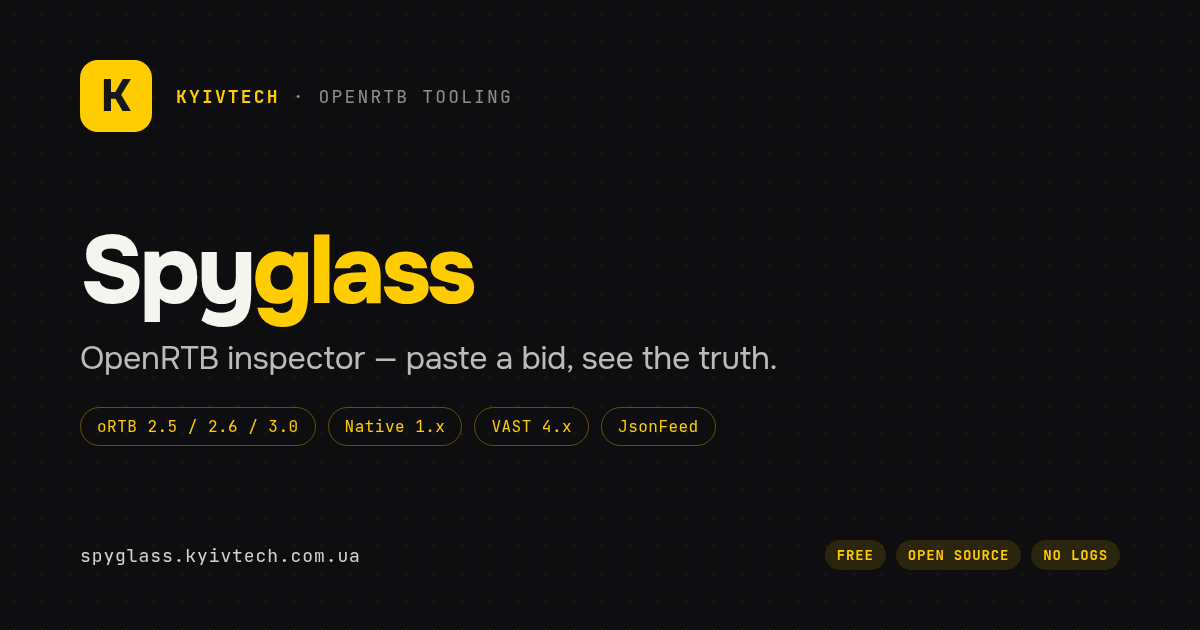
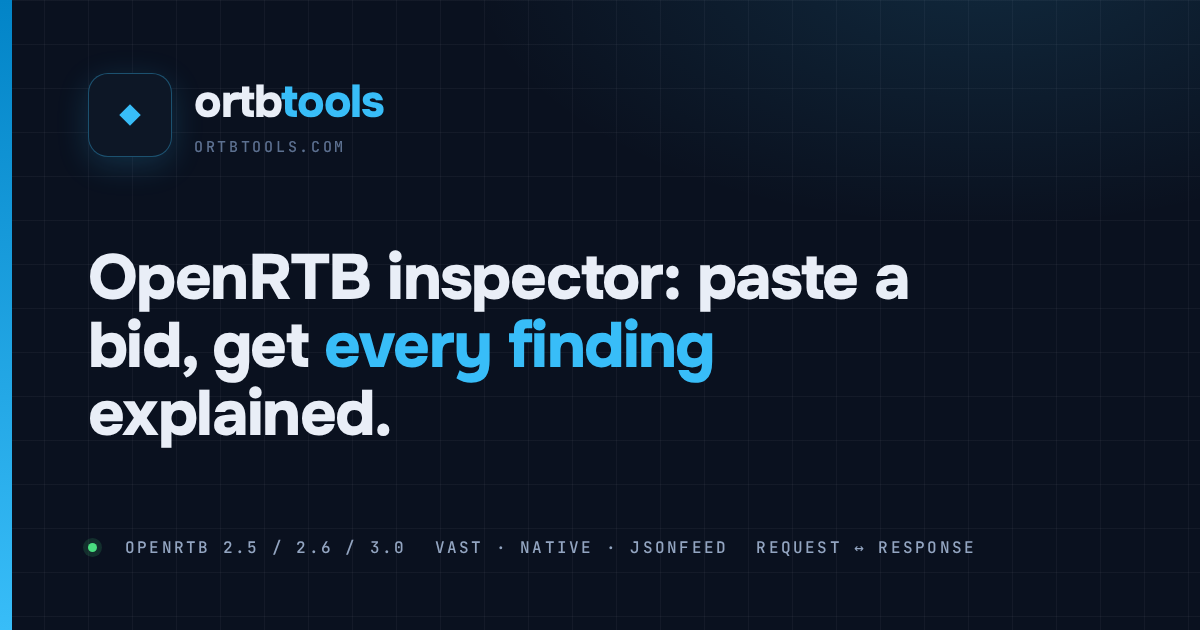
fix(design): v1.3.8 — Signal wave 1: stop-yellow
Design audit 2026-07-13 (vault «2026-07-13 — ortbtools.com дизайн-аудит
(Signal)») found the retired brand yellow #FFCC00 still RENDERING live in
six places, a month after the Signal decision removed it from the brand.
This wave kills every live-yellow pixel; the ~290 dormant var() fallbacks
sweep stays scheduled for wave 3.

- Favicon/icon: yellow "K" tile → navy #0D1726 + #38BDF8 ◆ (matches the
  sidebar brand mark); mask-icon color #FFCC00 → #0284C7 in all 9 shells.
  og-image.png regenerated (was pre-Signal, 2026-05-04): navy blueprint
  card, Onest headline, JBM meta row.
- inspector.css: declare --accent-rgb / --bg-elev-rgb per theme — four
  rgba(var(--accent-rgb, 255,204,0)) call sites (priv-badge, ver-badge,
  severity-chip hover) rendered the yellow fallback because the token
  never existed. q-good quality pill was yellow fill/glow against an
  already-blue border → accent family (scale: green→blue→orange→red),
  status text #0369a1 light / --accent dark (both AA).
- account.*.html: undeclared --accent-bg → var(--accent-soft) (active
  cabinet nav rendered pale yellow; .cab-radio.active lost its tint).
- search.css: dark dropdown glass rgba(42,38,34,.88) — pre-Signal warm
  graphite, a brown panel on the navy theme → rgba(18,28,48,.88) from
  --bg-elev.
- blog.css: undeclared --surface-alt → var(--bg-elev-2) (code blocks were
  dark charcoal in the light theme); active chip color #000 →
  var(--text-on-accent).
[…]

diff --git a/public/modules/inspector/inspector.css b/public/modules/inspector/inspector.css
@@ -18,9 +18,17 @@
          win the cascade by default. */
 :root {
   --text-warning: #92400e;
+  /* RGB triplets for rgba(var(--…-rgb), α) mixing. Neither token exists in
+     design-system.css — without these declarations the call sites below fell
+     back to the retired brand yellow (255, 204, 0). Values mirror --accent
+     (#0284C7 / #38BDF8) and --bg-elev (#FFFFFF / #121C30) per theme. */
+  --accent-rgb: 2, 132, 199;
+  --bg-elev-rgb: 255, 255, 255;
 }
 [data-theme='dark'] {
   --text-warning: #fcd34d;
+  --accent-rgb: 56, 189, 248;
+  --bg-elev-rgb: 18, 28, 48;
 }
 
 html,
@@ -2805,9 +2813,9 @@ button.cross-path:focus-visible,
   font-size: 10px;
   font-weight: 700;
   margin-right: 3px;
-  background: rgba(var(--accent-rgb, 255, 204, 0), 0.15);
+  background: rgba(var(--accent-rgb, 2, 132, 199), 0.15);
   color: var(--text);
-  border: 1px solid rgba(var(--accent-rgb, 255, 204, 0), 0.4);
+  border: 1px solid rgba(var(--accent-rgb, 2, 132, 199), 0.4);
 }
 /* Version badge accent */
 .analysis-strip-value .ver-badge {
@@ -2816,9 +2824,9 @@ button.cross-path:focus-visible,
   border-radius: 3px;
   font-size: 11px;
   font-weight: 700;
-  background: rgba(var(--accent-rgb, 255, 204, 0), 0.2);
+  background: rgba(var(--accent-rgb, 2, 132, 199), 0.2);
   color: var(--text);
-  border: 1px solid var(--accent, #ffcc00);
+  border: 1px solid var(--accent, #0284c7);
 }
 /* Narrow viewports: hide labels, scroll horizontally. Previously the blocks
    stayed flex:1 (equal columns), crushing each value to ~32px so "Web (Banner)"
@@ -2878,14 +2886,14 @@ button.cross-path:focus-visible,
   background: rgba(255, 255, 255, 0.04);
 }
 .severity-chip:hover {
-  background: rgba(var(--accent-rgb, 255, 204, 0), 0.1);
-  border-color: var(--accent, #ffcc00);
+  background: rgba(var(--accent-rgb, 2, 132, 199), 0.1);
+  border-color: var(--accent, #0284c7);
   color: var(--text);
 }
 .severity-chip.active {
-  background: var(--accent, #ffcc00);
-  border-color: var(--accent, #ffcc00);
-  color: var(--accent-ink, #18181b);
+  background: var(--accent, #0284c7);
+  border-color: var(--accent, #0284c7);
+  color: var(--text-on-accent, #ffffff);
 }
 .severity-chip .chip-dot {
   display: inline-block;
@@ -2964,12 +2972,15 @@ button.cross-path:focus-visible,
     0 0 6px 0 rgba(22, 163, 74, 0.35) inset,
     0 0 4px rgba(22, 163, 74, 0.25);
 }
+/* q-good tier rides the Signal accent (blue) — scale reads
+   green → blue → orange → red. Was retired brand yellow, which left a
+   yellow fill against an already-blue border after the Signal migration. */
 .quality-pill.q-good {
-  background: rgba(255, 204, 0, 0.18);
-  border-color: var(--accent, #ffcc00);
+  background: rgba(var(--accent-rgb, 2, 132, 199), 0.16);
+  border-color: var(--accent, #0284c7);
   box-shadow:
-    0 0 6px 0 rgba(255, 204, 0, 0.35) inset,
-    0 0 4px rgba(255, 204, 0, 0.25);
+    0 0 6px 0 rgba(var(--accent-rgb, 2, 132, 199), 0.32) inset,
+    0 0 4px rgba(var(--accent-rgb, 2, 132, 199), 0.22);
 }
 .quality-pill.q-needs-attention {
   background: rgba(234, 88, 12, 0.18);
@@ -3013,10 +3024,11 @@ button.cross-path:focus-visible,
   color: #16a34a;
 }
 .quality-pill.q-good .quality-status {
-  color: #b8960a;
+  /* sky-700 — 5.9:1 on white; --accent itself is only 4.1:1 as text */
+  color: #0369a1;
 }
 [data-theme='dark'] .quality-pill.q-good .quality-status {
-  color: var(--accent, #ffcc00);
+  color: var(--accent, #38bdf8);
 }
 .quality-pill.q-needs-attention .quality-status {
   color: #ea580c;

diff --git a/public/modules/blog/blog.css b/public/modules/blog/blog.css
@@ -58,9 +58,9 @@
   border-color: var(--text-muted);
 }
 .blog-chip.is-active {
-  background: var(--accent, #ffcc00);
-  border-color: var(--accent, #ffcc00);
-  color: #000;
+  background: var(--accent, #0284c7);
+  border-color: var(--accent, #0284c7);
+  color: var(--text-on-accent, #ffffff);
 }
 
 /* ── Grid ────────────────────────────────────────────────── */
@@ -145,7 +145,7 @@
   font-size: 11px;
   padding: 2px 6px;
   border-radius: 4px;
-  background: var(--surface-alt, #27272a);
+  background: var(--bg-elev-2, #ecf1f6);
   color: var(--text-muted);
 }
 .blog-source {
@@ -249,13 +249,13 @@
   margin: 0.3em 0;
 }
 .blog-post__body code {
-  background: var(--surface-alt, #27272a);
+  background: var(--bg-elev-2, #ecf1f6);
   border-radius: 4px;
   padding: 1px 5px;
   font-size: 0.9em;
 }
 .blog-post__body pre {
-  background: var(--surface-alt, #27272a);
+  background: var(--bg-elev-2, #ecf1f6);
   border-radius: 6px;
   padding: 12px 16px;
   overflow-x: auto;

diff --git a/public/account.en.html b/public/account.en.html
@@ -15,7 +15,7 @@
     <link rel="alternate" hreflang="en" href="https://ortbtools.com/account" />
     <link rel="icon" type="image/svg+xml" sizes="any" href="/icon.svg" />
     <link rel="apple-touch-icon" href="/icon.svg" />
-    <link rel="mask-icon" href="/icon.svg" color="#FFCC00" />
+    <link rel="mask-icon" href="/icon.svg" color="#0284C7" />
     <link rel="preconnect" href="https://fonts.googleapis.com" />
     <link rel="preconnect" href="https://fonts.gstatic.com" crossorigin />
     <link
@@ -243,7 +243,7 @@
       }
       .cab-radio.active {
         border-color: var(--accent);
-        background: var(--accent-bg);
+        background: var(--accent-soft);
         color: var(--accent);
       }
       .heatmap {
@@ -463,7 +463,7 @@
         color: var(--text);
       }
       .cab-nav-item.is-active {
-        background: var(--accent-bg, rgba(255, 204, 0, 0.15));
+        background: var(--accent-soft, rgba(2, 132, 199, 0.12));
         color: var(--accent, #181818);
         font-weight: 500;
       }

diff --git a/public/account.ru.html b/public/account.ru.html
@@ -15,7 +15,7 @@
     <link rel="alternate" hreflang="en" href="https://ortbtools.com/account" />
     <link rel="icon" type="image/svg+xml" sizes="any" href="/icon.svg" />
     <link rel="apple-touch-icon" href="/icon.svg" />
-    <link rel="mask-icon" href="/icon.svg" color="#FFCC00" />
+    <link rel="mask-icon" href="/icon.svg" color="#0284C7" />
     <link rel="preconnect" href="https://fonts.googleapis.com" />
     <link rel="preconnect" href="https://fonts.gstatic.com" crossorigin />
     <link
@@ -243,7 +243,7 @@
       }
       .cab-radio.active {
         border-color: var(--accent);
-        background: var(--accent-bg);
+        background: var(--accent-soft);
         color: var(--accent);
       }
       .heatmap {
@@ -463,7 +463,7 @@
         color: var(--text);
       }
       .cab-nav-item.is-active {
-        background: var(--accent-bg, rgba(255, 204, 0, 0.15));
+        background: var(--accent-soft, rgba(2, 132, 199, 0.12));
         color: var(--accent, #181818);
         font-weight: 500;
       }

diff --git a/public/account.uk.html b/public/account.uk.html
@@ -15,7 +15,7 @@
     <link rel="alternate" hreflang="en" href="https://ortbtools.com/account" />
     <link rel="icon" type="image/svg+xml" sizes="any" href="/icon.svg" />
     <link rel="apple-touch-icon" href="/icon.svg" />
-    <link rel="mask-icon" href="/icon.svg" color="#FFCC00" />
+    <link rel="mask-icon" href="/icon.svg" color="#0284C7" />
     <link rel="preconnect" href="https://fonts.googleapis.com" />
     <link rel="preconnect" href="https://fonts.gstatic.com" crossorigin />
     <link
@@ -243,7 +243,7 @@
       }
       .cab-radio.active {
         border-color: var(--accent);
-        background: var(--accent-bg);
+        background: var(--accent-soft);
         color: var(--accent);
       }
       .heatmap {
@@ -463,7 +463,7 @@
         color: var(--text);
       }
       .cab-nav-item.is-active {
-        background: var(--accent-bg, rgba(255, 204, 0, 0.15));
+        background: var(--accent-soft, rgba(2, 132, 199, 0.12));
         color: var(--accent, #181818);
         font-weight: 500;
       }

diff --git a/public/about.en.html b/public/about.en.html
@@ -58,7 +58,7 @@
     </script>
     <link rel="icon" type="image/svg+xml" sizes="any" href="/icon.svg" />
     <link rel="apple-touch-icon" href="/icon.svg" />
-    <link rel="mask-icon" href="/icon.svg" color="#FFCC00" />
+    <link rel="mask-icon" href="/icon.svg" color="#0284C7" />
     <link rel="preconnect" href="https://fonts.googleapis.com" />
     <link rel="preconnect" href="https://fonts.gstatic.com" crossorigin />
     <link
@@ -1340,7 +1340,7 @@ server formats localised text and returns 200 JSON</code></pre>
               font-size: var(--fs-sm);
             "
           >
-            <span data-spyglass-version>v1.3.7</span> · openrtb 2.5 / 2.6 / 3.0 · native 1.x · vast
+            <span data-spyglass-version>v1.3.8</span> · openrtb 2.5 / 2.6 / 3.0 · native 1.x · vast
             4.x · <a href="/" style="color: var(--text-dim)">↗ ortbtools</a> ·
             <a href="https://ortbtools.com/" style="color: var(--text-dim)">ortbtools.com</a>
           </p>

diff --git a/public/about.uk.html b/public/about.uk.html
@@ -58,7 +58,7 @@
     </script>
     <link rel="icon" type="image/svg+xml" sizes="any" href="/icon.svg" />
     <link rel="apple-touch-icon" href="/icon.svg" />
-    <link rel="mask-icon" href="/icon.svg" color="#FFCC00" />
+    <link rel="mask-icon" href="/icon.svg" color="#0284C7" />
     <link rel="preconnect" href="https://fonts.googleapis.com" />
     <link rel="preconnect" href="https://fonts.gstatic.com" crossorigin />
     <link
@@ -1343,7 +1343,7 @@ findings[]: { id, level, path, params, msg, specRef }
               font-size: var(--fs-sm);
             "
           >
-            <span data-spyglass-version>v1.3.7</span> · openrtb 2.5 / 2.6 / 3.0 · native 1.x · vast
+            <span data-spyglass-version>v1.3.8</span> · openrtb 2.5 / 2.6 / 3.0 · native 1.x · vast
             4.x · <a href="/uk/" style="color: var(--text-dim)">↗ ortbtools</a> ·
             <a href="https://ortbtools.com/" style="color: var(--text-dim)">ortbtools.com</a>
           </p>

diff --git a/public/about.ru.html b/public/about.ru.html
@@ -59,7 +59,7 @@
     </script>
     <link rel="icon" type="image/svg+xml" sizes="any" href="/icon.svg" />
     <link rel="apple-touch-icon" href="/icon.svg" />
-    <link rel="mask-icon" href="/icon.svg" color="#FFCC00" />
+    <link rel="mask-icon" href="/icon.svg" color="#0284C7" />
     <link rel="preconnect" href="https://fonts.googleapis.com" />
     <link rel="preconnect" href="https://fonts.gstatic.com" crossorigin />
     <link
@@ -1341,7 +1341,7 @@ findings[]: { id, level, path, params, msg, specRef }
               font-size: var(--fs-sm);
             "
           >
-            <span data-spyglass-version>v1.3.7</span> · openrtb 2.5 / 2.6 / 3.0 · native 1.x · vast
+            <span data-spyglass-version>v1.3.8</span> · openrtb 2.5 / 2.6 / 3.0 · native 1.x · vast
             4.x · <a href="/" style="color: var(--text-dim)">↗ ortbtools</a> ·
             <a href="https://ortbtools.com/" style="color: var(--text-dim)">ortbtools.com</a>
           </p>

diff --git a/public/modules/search/search.css b/public/modules/search/search.css
@@ -56,9 +56,10 @@
   animation: sg-dropdown-in var(--t-fast, 150ms) var(--ease-out, cubic-bezier(0.16, 1, 0.3, 1)) both;
 }
 
-/* Dark theme glass */
+/* Dark theme glass — navy from --bg-elev #121C30. Was the pre-Signal
+   warm-graphite rgba(42,38,34,…), a brown panel on the navy theme. */
 [data-theme='dark'] .sg-search-dropdown {
-  background: rgba(42, 38, 34, 0.88);
+  background: rgba(18, 28, 48, 0.88);
 }
 
 /* Fallback: no backdrop-filter support */
@@ -67,7 +68,7 @@
     background: var(--bg-elev, #ffffff);
   }
   [data-theme='dark'] .sg-search-dropdown {
-    background: var(--bg-elev, #2a2622);
+    background: var(--bg-elev, #121c30);
   }
 }
 

diff --git a/public/index.en.html b/public/index.en.html
@@ -75,7 +75,7 @@
 
     <link rel="icon" type="image/svg+xml" sizes="any" href="/icon.svg" />
     <link rel="apple-touch-icon" href="/icon.svg" />
-    <link rel="mask-icon" href="/icon.svg" color="#FFCC00" />
+    <link rel="mask-icon" href="/icon.svg" color="#0284C7" />
     <link rel="preconnect" href="https://fonts.googleapis.com" />
     <link rel="preconnect" href="https://fonts.gstatic.com" crossorigin />
     <link

diff --git a/public/index.ru.html b/public/index.ru.html
@@ -76,7 +76,7 @@
 
     <link rel="icon" type="image/svg+xml" sizes="any" href="/icon.svg" />
     <link rel="apple-touch-icon" href="/icon.svg" />
-    <link rel="mask-icon" href="/icon.svg" color="#FFCC00" />
+    <link rel="mask-icon" href="/icon.svg" color="#0284C7" />
     <link rel="preconnect" href="https://fonts.googleapis.com" />
     <link rel="preconnect" href="https://fonts.gstatic.com" crossorigin />
     <link

diff --git a/public/index.uk.html b/public/index.uk.html
@@ -81,7 +81,7 @@
 
     <link rel="icon" type="image/svg+xml" sizes="any" href="/icon.svg" />
     <link rel="apple-touch-icon" href="/icon.svg" />
-    <link rel="mask-icon" href="/icon.svg" color="#FFCC00" />
+    <link rel="mask-icon" href="/icon.svg" color="#0284C7" />
     <link rel="preconnect" href="https://fonts.googleapis.com" />
     <link rel="preconnect" href="https://fonts.gstatic.com" crossorigin />
     <link
